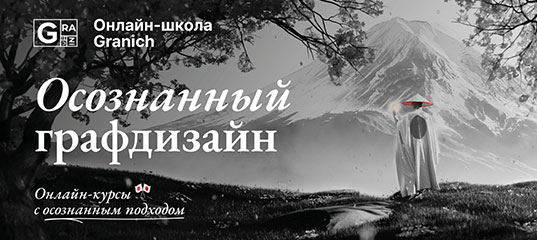
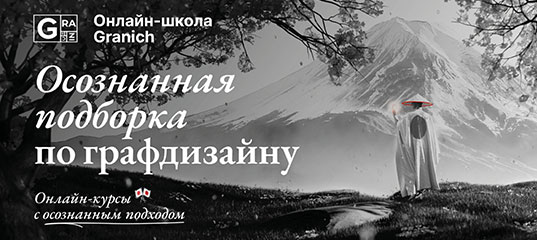
seo images

Changed region(s): [[0.0596, 0.2625, 0.5661, 0.7292], [0.0596, 0.7583, 0.3575, 0.9625], [0.0596, 0.0583, 0.4171, 0.2042]]

diff --git a/src/templates/podborka.jsx b/src/templates/podborka.jsx
@@ -10,7 +10,10 @@ import Tools from '../components/content-page/Tools'
 import Video from '../components/content-page/Video'
 import Wishes from '../components/content-page/Wishes'
 import PodborkaOffer from '../components/content-page/PodborkaOffer';
-
+import ogImageGraphDesign from '../assets/images/seo/conscious-graphic-design-compilation-min.jpg';
+import ogImageVKGraphDesign from '../assets/images/seo/vk/conscious-graphic-design-compilation.jpg';
+import ogImageFreelance from '../assets/images/seo/conscious-freelance-compilation-min.jpg';
+import ogImageVKFreelance from '../assets/images/seo/vk/conscious-freelance-compilation.jpg';
 
 
 export const podborkaPageQuery = graphql`
@@ -205,12 +208,32 @@ export const podborkaPageQuery = graphql`
 `
 
 const PodborkaPage = ({data}) => {
-    console.log(data.coursePodborkaBanner)
+
     return (
         <Layout>
             <Header type="dark"/>
-            <SEO title={`${data.contentfulPodborka.contentTitle}`}
-                 url={`https://granich.design/${data.contentfulPodborka.contentSlug}`} />
+            {data.contentfulPodborka.contentSlug === 'conscious-graphic-design-compilation' && (
+                <>
+                    <SEO title={`${data.contentfulPodborka.contentTitle}`} 
+                         ogImageVk={ogImageVKGraphDesign}
+                         ogImage={ogImageGraphDesign}
+                         description={data.offerPodborkaGraphDesign.collectionOfferDescr}
+                         url={`https://granich.design/${data.contentfulPodborka.contentSlug}`} />
+                </>
+
+            )}
+            {data.contentfulPodborka.contentSlug === 'conscious-freelance-compilation' && (
+                <>
+                    <SEO 
+                        title={`${data.contentfulPodborka.contentTitle}`} 
+                        ogImageVk={ogImageVKFreelance}
+                        ogImage={ogImageFreelance}
+                        description={data.offerPodborkaFreelance.collectionOfferDescr}
+                        url={`https://granich.design/${data.contentfulPodborka.contentSlug}`} />
+                </>
+
+            )}
+            
             <div className="section-top-block"></div>
             {data.contentfulPodborka.contentBannerSwitch && data.coursePodborkaBanner && <Banner data={data.coursePodborkaBanner}/>}
             {data.contentfulPodborka.contentSlug === 'conscious-graphic-design-compilation' && (

diff --git a/src/components/course-page/PriceRangeModal.jsx b/src/components/course-page/PriceRangeModal.jsx
@@ -622,7 +622,7 @@ const PriceRangeModal = ({modalIsOpen, openModal, closeModal, chosenPrice, data,
                                                 errorStyle={errors.formParams && errors.formParams.offer_id && touched.formParams && touched.formParams.offer_id ? 1 : 0}
                                                 
                                             /> 
-                                            {console.log(values.formParams.offer_id)}
+            
                                            
                                             <FormCheckboxLabel line className={`course-form-label ${errors.formParams && errors.formParams.offer_id && touched.formParams && touched.formParams.offer_id && 'course-form-label_error'}`} htmlFor={`${data.edges[2].node.pricesPrice}`}>
                                                   <FormLabelText>

diff --git a/src/components/seo.js b/src/components/seo.js
@@ -34,10 +34,10 @@ const SEO = ({ description, lang, meta, title, keywords, ogImage, url, ogImageVk
 
   const metaDescription = description || site.siteMetadata.description
   const metaKeywords = keywords || site.siteMetadata.keywords
-  const metaOgImage = ogImage || site.siteMetadata.OgImage
+  const metaOgImage = ogImage || site.siteMetadata.ogImage
   const metaTitle = title ||  site.siteMetadata.title
   const metaOgUrl = url || site.siteMetadata.siteUrl
-  const metaOgImageVk = ogImageVk || site.siteMetadata.OgImageVk
+  const metaOgImageVk = ogImageVk || site.siteMetadata.ogImageVk
 
   return (
     <Helmet

diff --git a/src/components/content-items/styles.jsx b/src/components/content-items/styles.jsx
@@ -184,7 +184,7 @@ export const  ContentContainer = styled.div`
 
 export const  ContentTagList = styled.div`
     display: flex;
-    margin-bottom: 0.7vw;
+    margin-bottom: 0.4vw;
     margin-left: -0.2vw;
     margin-right: -0.2vw;
     margin-top: 0.3vw;
@@ -208,6 +208,7 @@ export const  ContentTag = styled.div`
     display: inline-block;
     letter-spacing: -0.03vw;
     margin-right: 0.3vw;
+    margin-bottom: 0.3vw;
     :last-child {
         margin-right: 0;
     }

diff --git a/src/components/content-page/Tools.jsx b/src/components/content-page/Tools.jsx
@@ -205,7 +205,6 @@ const ToolsItem = ({text, image, links}) => {
                 <ToolsItemInfoDetails>
                     <ToolsItemImage fluid={image}/>
                     <ToolsItemInfoLinks className="collection_link">{documentToReactComponents(links.json, options)}</ToolsItemInfoLinks>
-                    {console.log(links.json)}
                 </ToolsItemInfoDetails>
                 <ToolsItemInfoText>
                  {documentToReactComponents(text, options)}

diff --git a/src/components/Cookies.jsx b/src/components/Cookies.jsx
@@ -110,12 +110,12 @@ const Cookies = () => {
     const [cookies, setCookies] = useState(false);
     useEffect(() => {
         if(localStorage.getItem('cookiesGranich')) {
-            // console.log('COOKIES', localStorage.getItem('cookiesGranich'))           
+        
         } else {
-            // localStorage.setItem('cookiesGranich', 1)
+
             setCookies(true)  
         }
-        // localStorage.removeItem('cookiesGranich')
+
     }, [])
 
 

diff --git a/src/components/course-page/portfolio/PortfolioMultiPagesMobile.jsx b/src/components/course-page/portfolio/PortfolioMultiPagesMobile.jsx
@@ -64,7 +64,7 @@ const PortfolioMultiPagesMobile = ({multiPages}) => {
     return (
         <GalleryMobileWrapper>
             {multiPages.edges.slice(0,5).map((slider, idx) => {
-                {console.log('SLIDER', slider)}
+       
                 return (
                     <Slider key={idx} slider={slider}/>
                 )

diff --git a/src/components/Courses.jsx b/src/components/Courses.jsx
@@ -39,6 +39,7 @@ const CoursesSection = styled.section`
     margin-top: -12.5vw;
     margin-bottom: 1vw;
     padding-top: 3vw;
+    z-index: 3;
     @media only screen and (max-width: 575px) {
         margin-top: -15.5vw;
         margin-bottom: 5vw;

diff --git a/src/components/content-page/ContentLinks.jsx b/src/components/content-page/ContentLinks.jsx
@@ -200,7 +200,7 @@ const ContentLink = ({link, type, text, title}) => {
  
 
 const ContentLinks = ({data}) => {
-    console.log('CONTENTFUL CONTENT', data)
+
     return (
         <ContentLinksSection>
             <Container>
